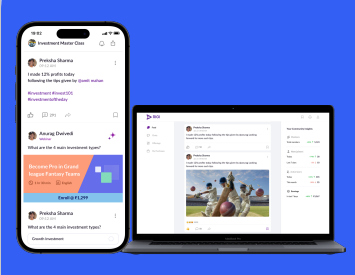
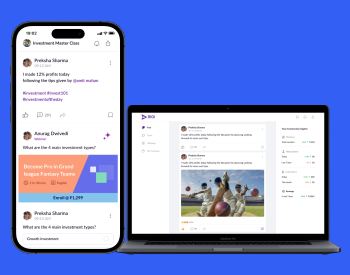
minir

diff --git a/styles.css b/styles.css
@@ -418,11 +418,18 @@ li::before {
 }
 
 #devices {
-  height: 250px;
-  background-image: url("images/getapp.png");
+  /* display: flex;
+  align-items: center;
+  justify-content: center;
+  height: 250px; */
+  /* background-image: url("images/getapp.png");
   background-size: contain;
   background-repeat: no-repeat;
-  background-position-x: -2px;
+  background-position-x: -2px; */
+}
+#devices > img {
+  margin: auto;
+  width: 60%;
 }
 
 #semi {
@@ -568,7 +575,6 @@ hr {
 
   #Community {
     display: flex;
-    /* border: solid red; */
     box-sizing: border-box;
     justify-content: center;
     gap: 5%;
@@ -598,17 +604,6 @@ hr {
 
   video {
     width: 650px;
-  }
-
-  #devices {
-    width: 100%;
-    height: 500px;
-    background-image: url("images/getapp.png");
-    background-size: contain;
-    background-repeat: no-repeat;
-    background-position-x: -4px;
-    position: relative;
-    left: 24%;
   }
 
   #headerSection > div > p {
@@ -687,6 +682,9 @@ hr {
   #mint h3,
   #mintx h3 {
     font-size: inherit;
+  }
+  .letter_div {
+    width: 65%;
   }
   .br-on-desktop {
     display: none;

diff --git a/index.html b/index.html
@@ -67,7 +67,7 @@
       <div>
         <div id="featureDiv">
           <h4>Featured in</h4>
-          <div class="flexediv">
+          <div class="flexediv letter_div">
             <span id="mintx"><h3>mint</h3></span>
             <span class="forbesDiv desc"><h3>Forbes</h3></span>
             <span id="economic"
@@ -96,7 +96,7 @@
             >
             <span id="mint"><h3>mint</h3></span>
           </div>
-          <div class="flexediv Sed">
+          <div class="flexediv Sed letter_div">
             <h3 class="forbesDiv">Forbes</h3>
             <h3 id="times">THE TIMES OF INDIA</h3>
           </div>
@@ -373,7 +373,9 @@
       </div>
       <div id="joinTheCommunityDiv">
         <div style="width: 70%; margin: 0 auto" id="CHINNA">
-          <div id="devices"></div>
+          <div id="devices">
+            <img src="images/getapp.png" alt="" />
+          </div>
         </div>
         <div class="button-bs">
           <button>Join the community</button>
